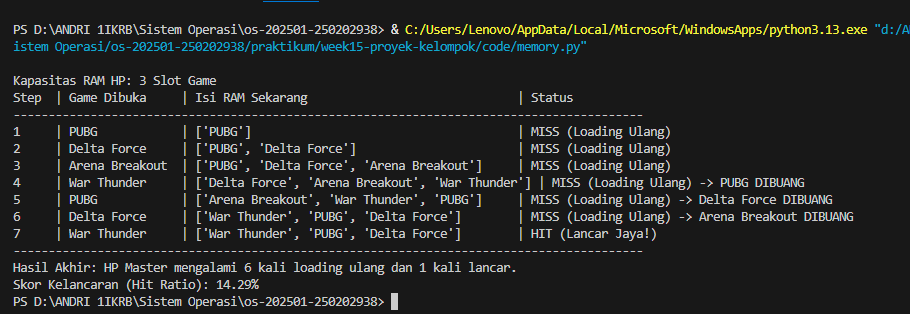
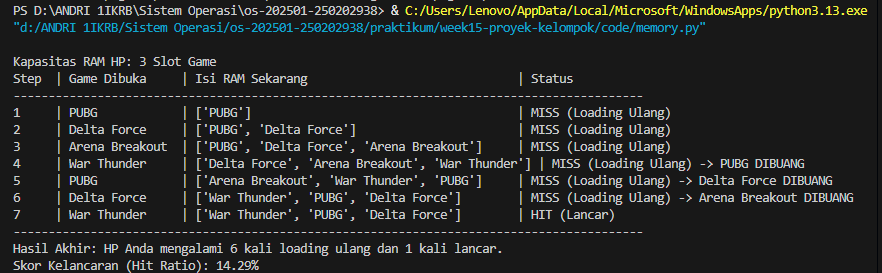
page-replacement update SS and Code

diff --git a/praktikum/week15-proyek-kelompok/code/memory.py b/praktikum/week15-proyek-kelompok/code/memory.py
@@ -24,7 +24,7 @@ def simulasi_fifo_game(daftar_klik_game, kapasitas_ram=3):
                 memori_ram.append(game)
         else:
             # 4. Jika game sudah ada di RAM (HIT)
-            status = "HIT (Lancar Jaya!)"
+            status = "HIT (Lancar)"
         
         print(f"{step:<5} | {game:<15} | {str(memori_ram):<45} | {status}")
 
@@ -32,7 +32,7 @@ def simulasi_fifo_game(daftar_klik_game, kapasitas_ram=3):
     total = len(daftar_klik_game)
     hits = total - page_faults
     print("-" * 90)
-    print(f"Hasil Akhir: HP Master mengalami {page_faults} kali loading ulang dan {hits} kali lancar.")
+    print(f"Hasil Akhir: HP Anda mengalami {page_faults} kali loading ulang dan {hits} kali lancar.")
     print(f"Skor Kelancaran (Hit Ratio): {(hits/total)*100:.2f}%")
 
 # Data dari file pages.csv Master
